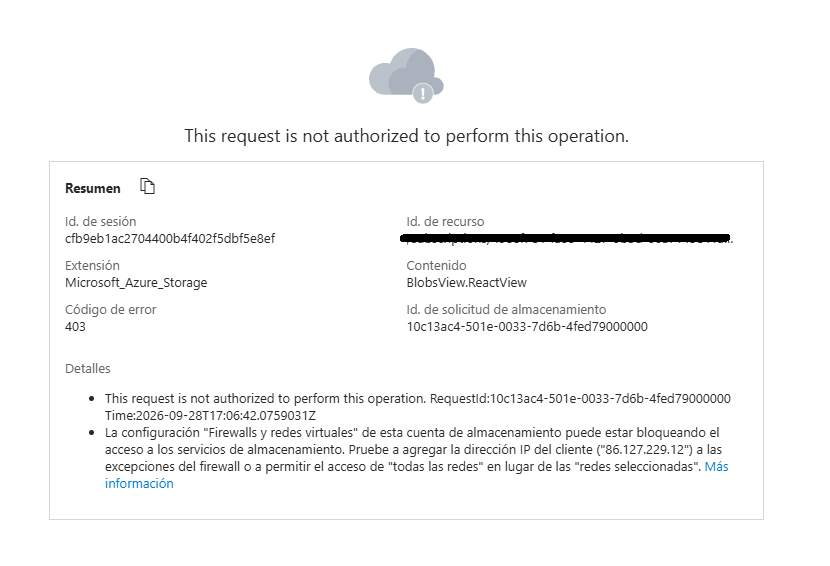
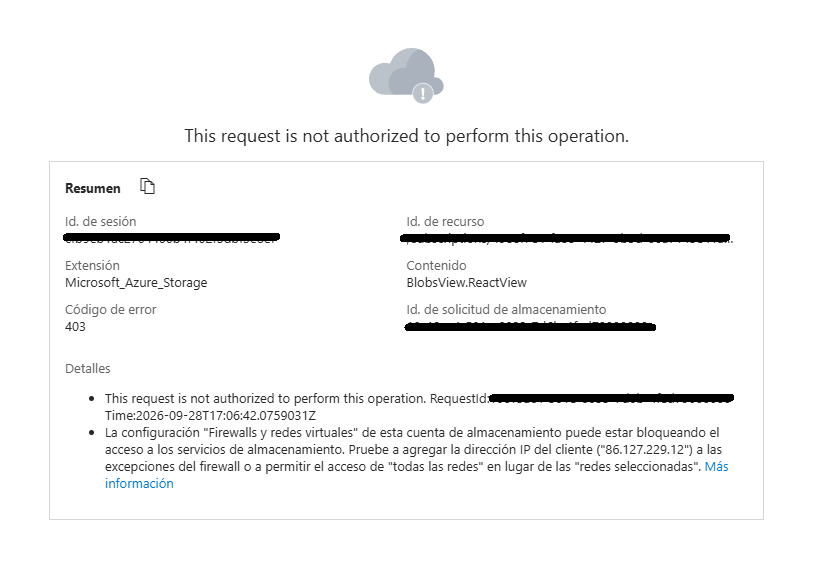
fixes images and text

Changed region(s): [[0.0602, 0.3905, 0.3313, 0.4505], [0.5723, 0.6908, 0.9036, 0.7208], [0.4819, 0.5707, 0.7831, 0.6007]]

diff --git a/04-Deploy-and-Manage-Compute-Resources/Custom-Challenges/01-Master-Challenge-Enterprise-Storage-Architecture.md b/04-Deploy-and-Manage-Compute-Resources/Custom-Challenges/01-Master-Challenge-Enterprise-Storage-Architecture.md
@@ -1,27 +1,36 @@
-### 🛡 Custom Challenge: Arquitectura Híbrida Segura y Escalable (PaaS, CaaS & IaaS)
-**Objetivo:** Diseñar e implementar una arquitectura de tres capas integrando servicios gestionados y de infraestructura, aplicando controles Zero Trust en la red perimetral y automatizando la optimización de costes (FinOps) mediante el autoescalado.
+### 🛡 Custom Challenge: Arquitectura Integral de Almacenamiento Seguro (SecOps, FinOps & HA)
+**Objetivo:** Diseñar e implementar una infraestructura de almacenamiento unificada para una corporación aplicando controles Zero Trust, garantizando la inmutabilidad de la evidencia forense (WORM) y automatizando la optimización de costes.
 
-#### 1. Frontend Seguro y Resiliente (PaaS)
-Para aislar la capa de presentación y asegurar las comunicaciones desde el usuario final, se desplegó un servicio web bastionado (`frontend-corp-jmguerrero`)[cite: 12]:
--   **Seguridad Perimetral (TLS/HTTPS):** Se activó la directiva `HTTPS solamente` forzando la `Versión mínima de TLS entrante` a 1.2 para rechazar cualquier petición en texto plano, mitigando los riesgos de interceptación[cite: 12].
--   **Disponibilidad Continua:** Se habilitó la opción `Siempre activado` para evitar la suspensión del proceso trabajador por inactividad[cite: 12].
+#### 1. Resiliencia y Alta Disponibilidad (Core Architecture)
+Para asegurar la continuidad del negocio frente a desastres regionales o ataques maliciosos, la cuenta base se aprovisionó con las máximas garantías de replicación y protección de datos:
+*   **Redundancia (RA-GRS):** Almacenamiento con redundancia geográfica con acceso de lectura, garantizando un failover transparente y lectura ininterrumpida desde la región secundaria.
+*   **Protección Anti-Ransomware:** Se habilitó la eliminación temporal (Soft Delete) con retención de 14 días y el control de versiones de blobs, asegurando la recuperación inmediata frente a sobrescrituras.
 
-![Configuración HTTPS Bastionado](./Images/frontend-swap-https.png)
+#### 2. Segmentación y Seguridad Zero Trust (Identidad y Red)
+Se erradicaron los vectores de ataque tradicionales mediante la desactivación de métodos de autenticación heredados y el aislamiento perimetral:
+*   **Identidad Exclusiva:** Se deshabilitó el acceso mediante claves de cuenta (Shared Key Access = Disabled), forzando el uso exclusivo de Microsoft Entra ID (RBAC).
 
-#### 2. Segmentación y Seguridad Zero Trust (CaaS & Red)
-La lógica de negocio principal (`backend-api-corp`) se protegió erradicando su exposición a la red pública, implementando un microservicio en un entorno de red aislado[cite: 11]:
--   **Inyección en VNet:** Se aprovisionó una instancia de contenedor delegando su interfaz de red directamente a una subred corporativa en la región `France Central`[cite: 11].
--   **Aislamiento Estricto:** Se le asignó exclusivamente una dirección IP privada (`10.0.0.4`), asegurando que el FQDN público quedara deshabilitado (`---`)[cite: 11]. El servicio es completamente invisible desde Internet y solo accesible mediante enrutamiento interno.
+![Configuración de Seguridad Zero Trust](./Images/storage-identity-hardening.png)
 
-![Backend Aislado Zero Trust](./Images/backend-aci-private.png)
+*   **Conectividad Controlada:** El acceso público fue denegado. Se configuraron *Service Endpoints* (`Microsoft.Storage`) para que la cuenta solo acepte tráfico proveniente de la red virtual autorizada (`vnet-management`).
+*   *Nota de seguridad:* Ni siquiera los administradores globales pueden acceder a los datos desde fuera de la red de gestión (Error 403).
 
-#### 3. Procesamiento IaaS Elástico (FinOps & HA)
-Para la capa de procesamiento en segundo plano, se diseñó un clúster IaaS optimizado financieramente:
--   **Autoescalado Paramétrico:** Se configuraron políticas de escalado dinámico en un Virtual Machine Scale Set (VMSS) basadas en CPU (Scale-Out al 75%, Scale-In al 30%) para adaptar el consumo de instancias al uso real.
--   **Troubleshooting (Limitación de Cuota):** Durante el despliegue final se documentó un bloqueo de políticas (`disallowed by Azure`) por restricción de cuota de vCPU en la suscripción "Azure for Students". La resolución en entornos de producción requeriría la apertura de un ticket de soporte técnico (Request Quota Increase).
+![Aislamiento de Red](./Images/storage-network-isolation.png)
 
-![Reglas de Autoescalado VMSS](./Images/iaas-vmss-autoscale.png)
+#### 3. Bóveda Forense Inmutable (Compliance & WORM)
+Los registros de auditoría y telemetría de seguridad requieren protección absoluta contra la manipulación:
+*   **Bloqueo Legal (WORM):** Se implementó una directiva de retención basada en tiempo en el contenedor de auditoría (`soc-logs`), garantizando que la evidencia forense no pueda ser alterada ni eliminada (Write-Once, Read-Many) por ningún actor.
+
+#### 4. Topología de Archivos Híbrida (Azure Files)
+Se habilitó un espacio de trabajo centralizado para los equipos operativos sin la carga administrativa de mantener servidores IaaS:
+*   **Recurso Compartido Seguro:** Despliegue de un File Share (`sec-tools`) optimizado para transacciones, accesible mediante el protocolo SMB 3.0 con cifrado en tránsito forzado.
+
+#### 5. Optimización Financiera Automatizada (FinOps)
+Para evitar el sobrecoste derivado de la retención a largo plazo de los registros forenses, se aplicó la automatización nativa del ciclo de vida:
+*   **Tiering Automatizado:** Regla *Lifecycle Management* que evalúa los blobs del contenedor `soc-logs`. Si no han sido modificados en 30 días, se degradan al nivel Esporádico (Cool); a los 90 días, se transicionan de forma automática al nivel Archivo (Archive).
+
+![Ciclo de Vida FinOps](./Images/storage-lifecycle-finops.png)
 
 --------------------------------------------------------------------------------
 
-*Laboratorio completado. La arquitectura base cuenta ahora con cifrado forzado en el frontend, segmentación de red estricta en el backend y diseño elástico preparado para optimización de costes.*
+*Laboratorio completado y recursos eliminados (FinOps). La arquitectura base cuenta ahora con segmentación estricta, protección contra ransomware y optimización de costes a largo plazo.*
